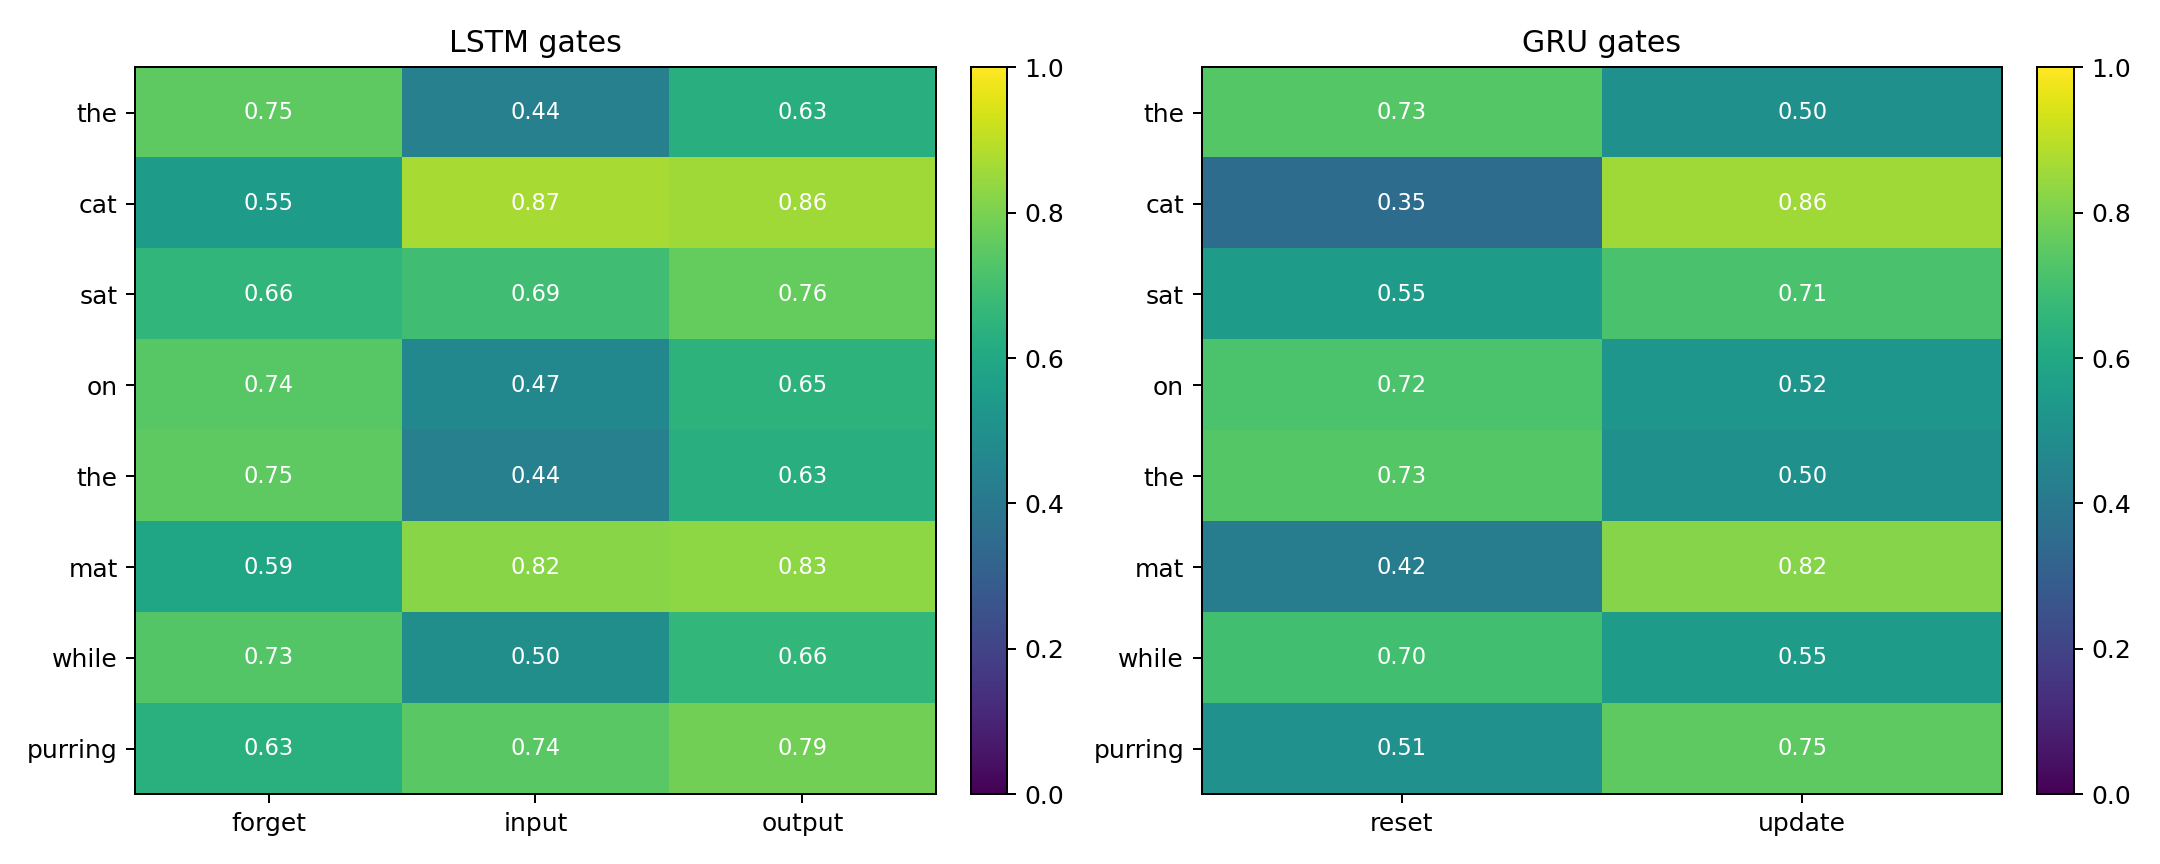
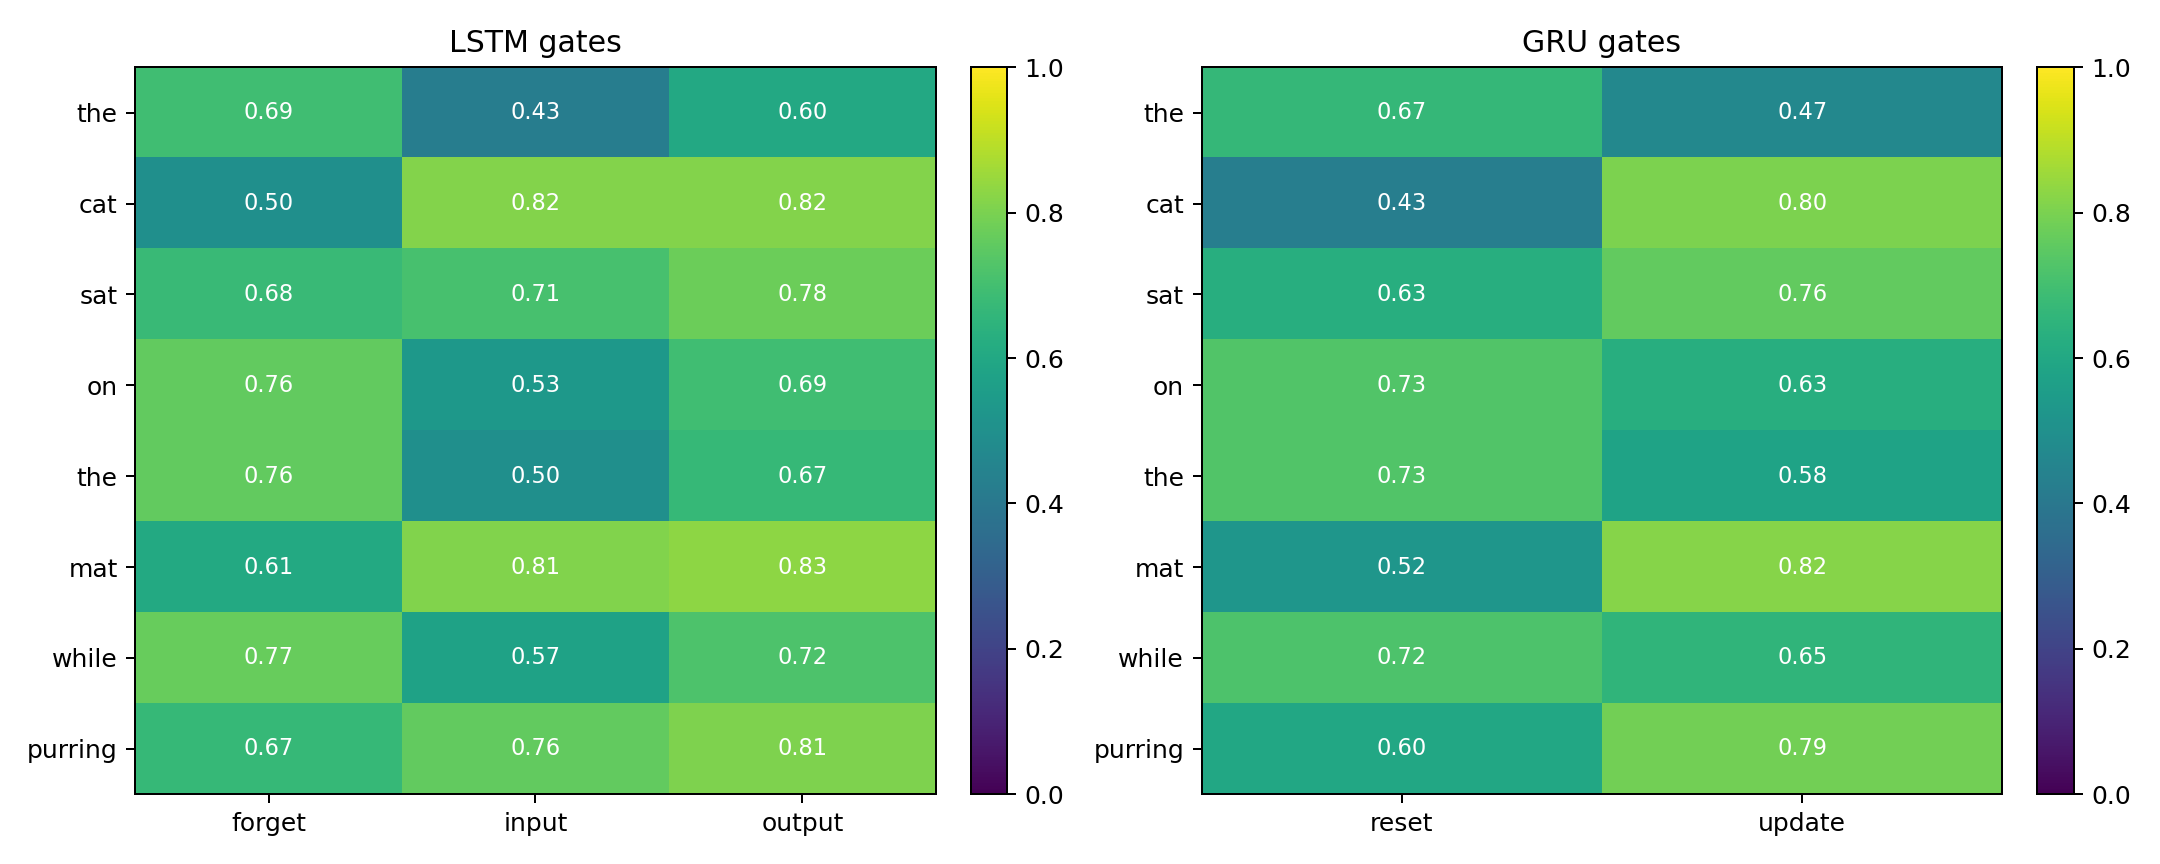
feat/aek/page14_19rnn_lstm_gru : Modify function of LSTM and GRU

diff --git a/page14_19/page14_19_rnn_lstm_gru_demo.py b/page14_19/page14_19_rnn_lstm_gru_demo.py
@@ -79,17 +79,18 @@ def simulate_rnn(tokens: List[str], signals: np.ndarray) -> List[Dict[str, float
 
 
 def simulate_lstm(tokens: List[str], signals: np.ndarray) -> List[Dict[str, float]]:
-    """A small hand-crafted LSTM to show forget, input, and output gates."""
+    """A small hand-crafted LSTM that feeds hidden state into the next-step gates."""
     cell = 0.0
     hidden = 0.0
     trace: List[Dict[str, float]] = []
 
     for step, (token, signal) in enumerate(zip(tokens, signals), start=1):
-        forget_gate = sigmoid(1.2 - 1.0 * signal)
-        input_gate = sigmoid(-0.5 + 2.4 * signal)
-        candidate = math.tanh(1.6 * signal - 0.2)
+        previous_hidden = hidden
+        forget_gate = sigmoid(0.9 - 0.9 * signal + 0.7 * previous_hidden)
+        input_gate = sigmoid(-0.5 + 2.0 * signal + 0.6 * previous_hidden)
+        candidate = math.tanh(1.4 * signal + 0.5 * previous_hidden - 0.2)
         cell = forget_gate * cell + input_gate * candidate
-        output_gate = sigmoid(0.4 + 1.4 * signal)
+        output_gate = sigmoid(0.3 + 1.2 * signal + 0.6 * previous_hidden)
         hidden = output_gate * math.tanh(cell)
 
         trace.append(
@@ -97,6 +98,7 @@ def simulate_lstm(tokens: List[str], signals: np.ndarray) -> List[Dict[str, floa
                 "step": step,
                 "token": token,
                 "signal": float(signal),
+                "prev_hidden": previous_hidden,
                 "forget": forget_gate,
                 "input": input_gate,
                 "candidate": candidate,
@@ -110,14 +112,15 @@ def simulate_lstm(tokens: List[str], signals: np.ndarray) -> List[Dict[str, floa
 
 
 def simulate_gru(tokens: List[str], signals: np.ndarray) -> List[Dict[str, float]]:
-    """A small hand-crafted GRU to show update and reset gates."""
+    """A small hand-crafted GRU that feeds hidden state into all gate decisions."""
     hidden = 0.0
     trace: List[Dict[str, float]] = []
 
     for step, (token, signal) in enumerate(zip(tokens, signals), start=1):
-        update_gate = sigmoid(-0.2 + 2.0 * signal)
-        reset_gate = sigmoid(1.2 - 1.8 * signal)
-        candidate = math.tanh(reset_gate * hidden + 1.4 * signal - 0.1)
+        previous_hidden = hidden
+        update_gate = sigmoid(-0.3 + 1.7 * signal + 0.8 * previous_hidden)
+        reset_gate = sigmoid(0.8 - 1.1 * signal + 0.5 * previous_hidden)
+        candidate = math.tanh(1.2 * signal + reset_gate * 0.9 * previous_hidden - 0.1)
         hidden = (1.0 - update_gate) * hidden + update_gate * candidate
 
         trace.append(
@@ -125,6 +128,7 @@ def simulate_gru(tokens: List[str], signals: np.ndarray) -> List[Dict[str, float
                 "step": step,
                 "token": token,
                 "signal": float(signal),
+                "prev_hidden": previous_hidden,
                 "update": update_gate,
                 "reset": reset_gate,
                 "candidate": candidate,

diff --git a/page14_19/page14_19_explanation.md b/page14_19/page14_19_explanation.md
@@ -118,6 +118,13 @@ In `simulate_lstm()`, the script computes:
 - `candidate`
 - `output_gate`
 
+Unlike the first draft of the demo, these gates now depend on both:
+
+- the current token signal
+- the previous hidden state
+
+That makes the recurrence much closer to a real LSTM, where the next step depends on what the model was already thinking.
+
 Then it updates:
 
 ```text
@@ -136,6 +143,8 @@ In `simulate_gru()`, the script computes:
 - `reset_gate`
 - `update_gate`
 - `candidate`
+
+Those gate values now also depend on the previous hidden state, which is how a real GRU decides whether to keep or overwrite what it already knows.
 
 Then it blends:
 
